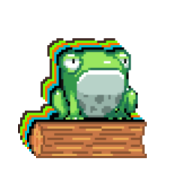
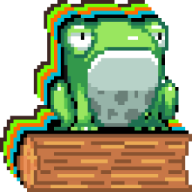
IMAGE

diff --git a/index.html b/index.html
@@ -18,7 +18,7 @@
       <div class="container">
         <div class="logo">
           <a href="/">
-            <img src="images/x-icon/favicon-32x32.png" alt="logo" />
+            <img src="images/x-icon/apple-touch-icon.png" alt="logo" />
           </a>
         </div>
         <div class="menu">
